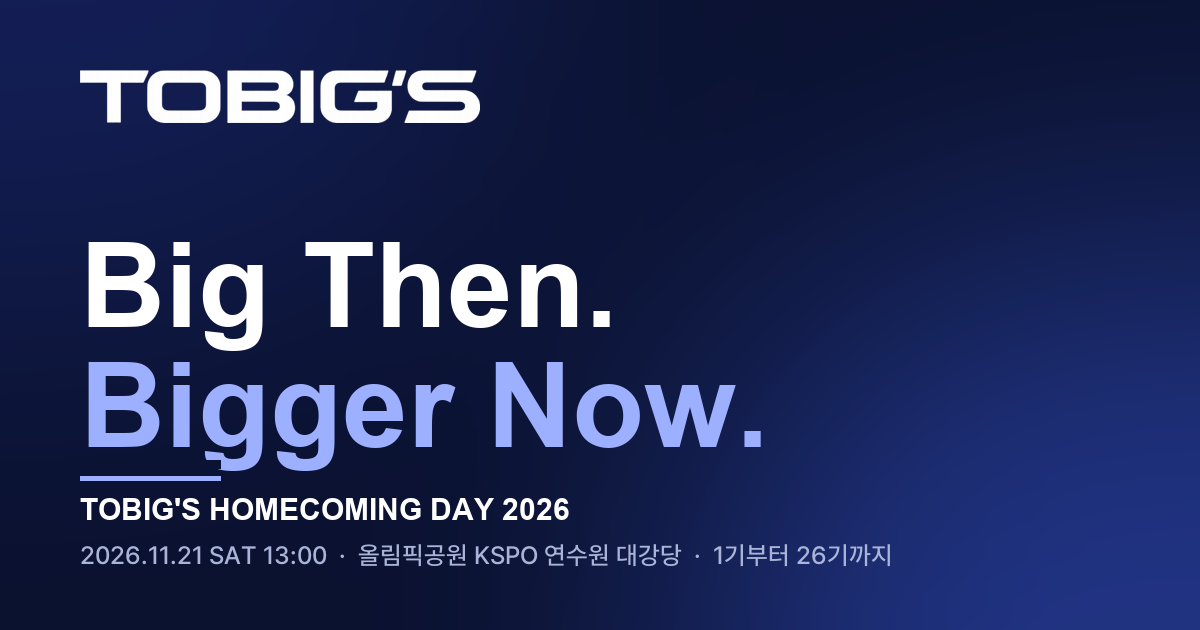
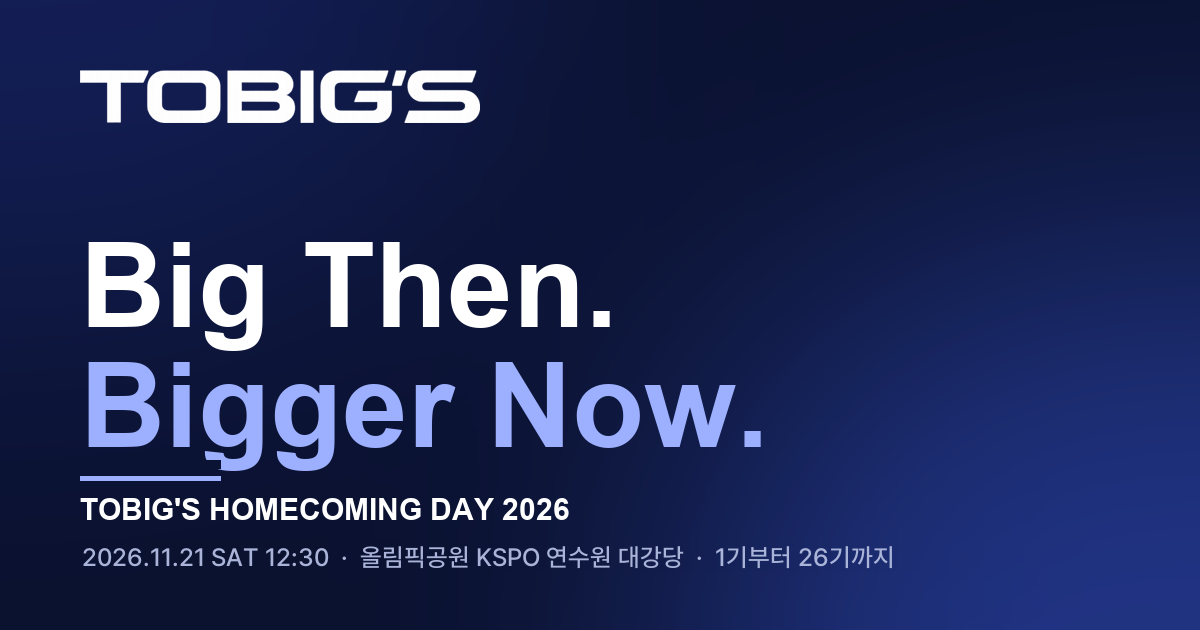
Program v2: 12:30 entry, two breaks, 60-min Table Talk, no Connection Networking; FAQ/calendar/OG/story times updated

Changed region(s): [[0.0617, 0.8444, 0.74, 0.9048]]

diff --git a/index.html b/index.html
@@ -4,7 +4,7 @@
 <meta charset="utf-8">
 <meta name="viewport" content="width=device-width, initial-scale=1, viewport-fit=cover">
 <title>TOBIG'S Homecoming Day 2026 · Big Then. Bigger Now.</title>
-<meta name="description" content="투빅스(TOBIG'S) 홈커밍데이 2026. 11월 21일(토) 13:00, 올림픽공원 KSPO 연수원 대강당. 1기부터 26기까지 전 기수가 모이는 동문 행사. 선배 토크, 퀴즈, 테이블 토크, 네트워킹.. 사전 신청.">
+<meta name="description" content="투빅스(TOBIG'S) 홈커밍데이 2026. 11월 21일(토) 12:30 입장, 13:00 개회. 올림픽공원 KSPO 연수원 대강당. 1기부터 26기까지 전 기수가 모이는 동문 행사. 선배 토크, 퀴즈, 테이블 토크. 사전 신청.">
 <link rel="canonical" href="https://homecoming.datamarket.ai.kr/">
 <meta name="theme-color" content="#0b1230">
 
@@ -37,14 +37,14 @@
 <meta property="og:site_name" content="TOBIG'S Homecoming Day 2026">
 <meta property="og:locale" content="ko_KR">
 <meta property="og:title" content="TOBIG'S Homecoming Day 2026">
-<meta property="og:description" content="Big Then. Bigger Now. 11월 21일(토) 13:00, 올림픽공원 KSPO 연수원 대강당. 투빅스 1기부터 26기까지 다시 한자리에. 사전 신청.">
+<meta property="og:description" content="Big Then. Bigger Now. 11월 21일(토) 12:30 입장, 13:00 개회. 올림픽공원 KSPO 연수원 대강당. 투빅스 1기부터 26기까지 다시 한자리에. 사전 신청.">
 <meta property="og:image" content="https://homecoming.datamarket.ai.kr/assets/og.png">
 <meta property="og:image:width" content="1200">
 <meta property="og:image:height" content="630">
 <meta property="og:url" content="https://homecoming.datamarket.ai.kr/">
 <meta name="twitter:card" content="summary_large_image">
 <meta name="twitter:title" content="TOBIG'S Homecoming Day 2026 · Big Then. Bigger Now.">
-<meta name="twitter:description" content="11월 21일(토) 13:00, 올림픽공원 KSPO 연수원 대강당. 투빅스 1기부터 26기까지 다시 한자리에.">
+<meta name="twitter:description" content="11월 21일(토) 12:30 입장, 13:00 개회. 올림픽공원 KSPO 연수원 대강당. 투빅스 1기부터 26기까지 다시 한자리에.">
 <meta name="twitter:image" content="https://homecoming.datamarket.ai.kr/assets/og.png">
 <link rel="icon" type="image/png" href="assets/favicon.png">
 <link rel="apple-touch-icon" href="assets/apple-touch-icon.png">
@@ -351,7 +351,7 @@
       <p class="lead">투빅스(To + Bigs)는 빅데이터를 공부하고 큰 사람이 되기 위해 모인 사람들이라는 뜻입니다. 2014년 1기부터 2026년 26기까지, 12년 동안 TOBIG'S를 지나간 400명 넘는 사람들이 한 공간에 모입니다. 지난 활동을 사진으로 돌아보고, 지금의 TOBIG'S가 무엇을 하는지 공유하고, 선배와 후배가 연결되는 시간입니다.</p>
     </div>
     <dl class="facts">
-      <div class="fact"><dt>When</dt><dd>2026.11.21 (토) 13:00</dd></div>
+      <div class="fact"><dt>When</dt><dd>2026.11.21 (토) 13:00<small>12:30부터 입장 · 16:40 종료</small></dd></div>
       <div class="fact"><dt>Where</dt><dd>KSPO 연수원 대강당<small>서울 송파구 올림픽로 424 · 몽촌토성역 도보 5분</small></dd></div>
       <div class="fact"><dt>Who</dt><dd>TOBIG'S 1기 – 26기 전원<small>전·현 기수 학회원 누구나</small></dd></div>
       <div class="fact"><dt>After</dt><dd>17:30 뒤풀이<small>희망자 참석 · 방이동 식당가</small></dd></div>
@@ -371,7 +371,7 @@
         <div class="big">KSPO 연수원<br>대강당</div>
         <div class="sub">서울특별시 송파구 올림픽로 424 (올림픽공원 · 올림픽회관 지하 1층)</div>
         <ul>
-          <li>13:00부터 입장, 17:00까지 행사가 마무리됩니다</li>
+          <li>12:30부터 입장, 16:40에 행사가 마무리됩니다</li>
           <li>8인 테이블 10개. 자리는 신청 때 고른 관심 주제로 미리 배정합니다</li>
           <li>행사장 주차 등록이 되지 않습니다</li>
           <li>행사장 안에 와이파이가 없습니다</li>
@@ -379,7 +379,7 @@
         <div class="actions">
           <a href="https://map.naver.com/p/search/%EC%98%AC%EB%A6%BC%ED%94%BD%ED%9A%8C%EA%B4%80" target="_blank" rel="noopener">네이버 지도</a>
           <a href="https://map.kakao.com/?q=%EC%98%AC%EB%A6%BC%ED%94%BD%ED%9A%8C%EA%B4%80" target="_blank" rel="noopener">카카오맵</a>
-          <a href="https://calendar.google.com/calendar/render?action=TEMPLATE&text=TOBIG%27S%20Homecoming%20Day%202026&dates=20261121T040000Z/20261121T080000Z&ctz=Asia/Seoul&location=KSPO%20%EC%97%B0%EC%88%98%EC%9B%90%20%EB%8C%80%EA%B0%95%EB%8B%B9%20(%EC%84%9C%EC%9A%B8%20%EC%86%A1%ED%8C%8C%EA%B5%AC%20%EC%98%AC%EB%A6%BC%ED%94%BD%EB%A1%9C%20424%20%EC%98%AC%EB%A6%BC%ED%94%BD%ED%9A%8C%EA%B4%80%20B1)&details=Big%20Then.%20Bigger%20Now.%20%ED%88%AC%EB%B9%85%EC%8A%A4%201%EA%B8%B0~26%EA%B8%B0%20%ED%99%88%EC%BB%A4%EB%B0%8D%EB%8D%B0%EC%9D%B4.%2013%3A00%20%EC%9E%85%EC%9E%A5%20%C2%B7%2013%3A30%20%EA%B0%9C%ED%9A%8C%0Ahttps%3A%2F%2Fhomecoming.datamarket.ai.kr%2F" target="_blank" rel="noopener">Google 캘린더에 추가</a>
+          <a href="https://calendar.google.com/calendar/render?action=TEMPLATE&text=TOBIG%27S%20Homecoming%20Day%202026&dates=20261121T033000Z/20261121T074000Z&ctz=Asia/Seoul&location=KSPO%20%EC%97%B0%EC%88%98%EC%9B%90%20%EB%8C%80%EA%B0%95%EB%8B%B9%20(%EC%84%9C%EC%9A%B8%20%EC%86%A1%ED%8C%8C%EA%B5%AC%20%EC%98%AC%EB%A6%BC%ED%94%BD%EB%A1%9C%20424%20%EC%98%AC%EB%A6%BC%ED%94%BD%ED%9A%8C%EA%B4%80%20B1)&details=Big%20Then.%20Bigger%20Now.%20%ED%88%AC%EB%B9%85%EC%8A%A4%201%EA%B8%B0~26%EA%B8%B0%20%ED%99%88%EC%BB%A4%EB%B0%8D%EB%8D%B0%EC%9D%B4.%2012%3A30%20%EC%9E%85%EC%9E%A5%20%C2%B7%2013%3A00%20%EA%B0%9C%ED%9A%8C%0Ahttps%3A%2F%2Fhomecoming.datamarket.ai.kr%2F" target="_blank" rel="noopener">Google 캘린더에 추가</a>
           <span class="cal-note">노션 캘린더·애플 캘린더는 연동된 Google 계정에 함께 표시됩니다</span>
         </div>
       </div>
@@ -402,16 +402,17 @@
     <h2>무대는 짧게, 대화는 길게</h2>
     <ol class="tl" id="tl">
       <span class="tl-progress" id="tl-progress" aria-hidden="true"></span>
-      <li class="tl-item"><span class="tl-dot"></span><span class="tl-time">13:00</span><div class="tl-body"><div class="n">입장 · 체크인</div><div class="d">명찰을 받고 미리 배정된 테이블로. 입구 질문 보드에 선배님께 묻고 싶은 질문을 남기고, 포토존에서 첫 사진을 남깁니다</div></div></li>
-      <li class="tl-item"><span class="tl-dot"></span><span class="tl-time">13:30</span><div class="tl-body"><div class="n">개회사</div><div class="d">TOBIG'S의 첫 기수, 1기 선배님의 개회 말씀</div><div class="speakers one" id="opener" hidden></div></div></li>
-      <li class="tl-item"><span class="tl-dot"></span><span class="tl-time">13:40</span><div class="tl-body"><div class="n">TOBIG'S Yesterday &amp; Today</div><div class="d">투빅스의 시작부터 지금까지, 사진으로 돌아보는 12년.<br>이어서 25·26기의 현재 활동 소개와 회장·운영부장 환영사</div></div></li>
-      <li class="tl-item"><span class="tl-dot"></span><span class="tl-time">14:00</span><div class="tl-body"><div class="n">Alumni Session</div><div class="d">MC와 선배 세 분이 함께하는 45분 토크 콘서트</div><div class="spk-label" id="spk-label" hidden>Talk Guests</div><div class="speakers" id="speakers" hidden></div></div></li>
-      <li class="tl-item"><span class="tl-dot"></span><span class="tl-time">14:45</span><div class="tl-body"><div class="n">Break &amp; Snack</div><div class="d">테이블에 준비된 구움과자와 커피, 차, 음료. 자유롭게 대화하고 포토존도 이용하세요</div></div></li>
-      <li class="tl-item"><span class="tl-dot"></span><span class="tl-time">15:05</span><div class="tl-body"><div class="n">TOBIG'S Quiz</div><div class="d">테이블 대항 8문제. 선배의 이야기, 옛 사진, 투빅스의 역사가 문제로 나옵니다.<br>서로 다른 기수가 협력해서 풀이해야 합니다</div></div></li>
-      <li class="tl-item"><span class="tl-dot"></span><span class="tl-time">15:25</span><div class="tl-body"><div class="n">Table Talk</div><div class="d">신청 때 고른 관심 분야로 모인 테이블에서 선후배가 30분간 대화.<br>가벼운 질문으로 시작해 커리어와 연구 이야기로</div></div></li>
-      <li class="tl-item"><span class="tl-dot"></span><span class="tl-time">15:55</span><div class="tl-body"><div class="n">Connection Networking</div><div class="d">테이블을 벗어나 아직 만나지 못한 기수를 만나는 시간.<br>선배는 후배 기수 두 명, 후배는 선배 기수 두 명 이상을 만나 기수 스티커를 교환합니다</div></div></li>
-      <li class="tl-item"><span class="tl-dot"></span><span class="tl-time">16:15</span><div class="tl-body"><div class="n">Lucky Draw</div><div class="d">행사의 마지막 이벤트, 경품 추첨</div></div></li>
-      <li class="tl-item"><span class="tl-dot"></span><span class="tl-time">16:25</span><div class="tl-body"><div class="n">단체사진 · Closing</div><div class="d">전원 단체사진, 만족도 설문, 뒤풀이 안내. 16:35 본행사 종료</div></div></li>
+      <li class="tl-item"><span class="tl-dot"></span><span class="tl-time">12:30</span><div class="tl-body"><div class="n">입장 · 체크인</div><div class="d">명찰과 기수 스티커를 받고 미리 배정된 테이블로. 입구 질문 보드에 선배님께 묻고 싶은 질문을 남기고, 포토존에서 첫 사진을 남깁니다</div></div></li>
+      <li class="tl-item"><span class="tl-dot"></span><span class="tl-time">13:00</span><div class="tl-body"><div class="n">Opening · TOBIG'S Yesterday</div><div class="d">Host의 오프닝 인사와 사진으로 돌아보는 투빅스 12년</div></div></li>
+      <li class="tl-item"><span class="tl-dot"></span><span class="tl-time">13:10</span><div class="tl-body"><div class="n">개회사</div><div class="d">TOBIG'S의 첫 기수, 1기 선배님의 개회 말씀</div><div class="speakers one" id="opener" hidden></div></div></li>
+      <li class="tl-item"><span class="tl-dot"></span><span class="tl-time">13:20</span><div class="tl-body"><div class="n">TOBIG'S Today</div><div class="d">25·26기의 현재 활동 소개와 회장·운영부장 환영사</div></div></li>
+      <li class="tl-item"><span class="tl-dot"></span><span class="tl-time">13:30</span><div class="tl-body"><div class="n">Alumni Session</div><div class="d">Host와 선배 세 분이 함께하는 40분 토크 콘서트</div><div class="spk-label" id="spk-label" hidden>Talk Guests</div><div class="speakers" id="speakers" hidden></div></div></li>
+      <li class="tl-item"><span class="tl-dot"></span><span class="tl-time">14:10</span><div class="tl-body"><div class="n">Break 1</div><div class="d">테이블에 준비된 구움과자와 커피, 차, 음료. 자유롭게 대화하고 포토존도 이용하세요.<br>다른 기수를 만나면 기수 스티커를 교환해 보세요</div></div></li>
+      <li class="tl-item"><span class="tl-dot"></span><span class="tl-time">14:40</span><div class="tl-body"><div class="n">TOBIG'S Quiz</div><div class="d">테이블 대항 5문제. 선배의 이야기, 옛 사진, 투빅스의 역사가 문제로 나옵니다.<br>서로 다른 기수가 협력해서 풀이해야 합니다</div></div></li>
+      <li class="tl-item"><span class="tl-dot"></span><span class="tl-time">15:00</span><div class="tl-body"><div class="n">Table Talk</div><div class="d">신청 때 고른 관심 분야로 모인 테이블에서 선후배가 60분간 대화.<br>가벼운 질문으로 시작해 커리어와 연구 이야기로</div></div></li>
+      <li class="tl-item"><span class="tl-dot"></span><span class="tl-time">16:00</span><div class="tl-body"><div class="n">Break 2</div><div class="d">테이블 단위로 다른 테이블에 놀러 가는 시간.<br>기수 스티커 교환은 여기서 마감합니다</div></div></li>
+      <li class="tl-item"><span class="tl-dot"></span><span class="tl-time">16:15</span><div class="tl-body"><div class="n">Lucky Draw · Closing</div><div class="d">경품 추첨, 마무리 인사, 만족도 설문과 뒤풀이 안내</div></div></li>
+      <li class="tl-item"><span class="tl-dot"></span><span class="tl-time">16:30</span><div class="tl-body"><div class="n">단체사진</div><div class="d">전원 단체사진. 16:40 본행사 종료</div></div></li>
       <li class="tl-item last"><span class="tl-dot"></span><span class="tl-time">17:30</span><div class="tl-body"><div class="n">뒤풀이</div><div class="d">희망자에 한해 방이동 식당가로 함께 이동</div></div></li>
     </ol>
   </div>
@@ -496,12 +497,12 @@
   <div class="wrap">
     <div class="eyebrow">FAQ</div>
     <h2>자주 묻는 질문</h2>
-    <details><summary>오래전 기수인데 아는 사람이 없어도 괜찮나요?</summary><p>그래서 만든 자리입니다. 명찰에 이름과 기수가 크게 적혀 있습니다. 테이블 토크 첫 라운드는 운영진이 기수를 섞어 배정하고, 테이블마다 현 기수 호스트가 자기소개와 대화를 이끕니다. 이어서 같은 테이블에서 신청 때 고른 관심 주제로 대화가 이어지고, 그 다음 네트워킹 미션(기수 스티커 교환)이 선후배에게 말을 걸 이유를 만들어 줍니다. 혼자 오셔도 어색할 틈이 없도록 설계했습니다.</p></details>
-    <details><summary>몇 시까지 가야 하나요? 늦게 도착해도 되나요?</summary><p>13:00부터 입장과 체크인이 시작되고 13:30에 개회합니다. 13:20까지 도착하시면 명찰을 받고 사진도 찍고 자리 잡을 여유가 있습니다. 늦으시는 경우에도 14:45 Break 시간까지는 체크인 데스크가 운영되고, 그 이후에는 입구 셀프 명찰함에서 명찰을 찾아 들어오시면 됩니다. 15:25 Table Talk부터 합류하셔도 프로그램의 핵심은 충분히 함께하실 수 있습니다. 본행사는 16:35에 끝납니다. 중간에 먼저 가셔야 하는 경우도 물론 괜찮습니다.</p></details>
-    <details><summary>선배님께 묻고 싶은 게 있어요. 어떻게 질문하나요?</summary><p>두 가지 방법이 있습니다. 참석 신청 폼에 "선배에게 묻고 싶은 질문" 칸이 있으니 미리 적어주시면 운영진이 질문 보드에 옮겨 둡니다. 당일에는 입구 체크인 데스크 옆 질문 보드에 포스트잇으로 직접 붙이실 수 있고, Alumni Session 도중에 떠오른 질문도 운영진에게 건네주시면 됩니다. 운영진이 질문을 모아 세션 후반 Q&amp;A 시간에 MC가 연사분들께 대신 여쭤봅니다. 이름을 적지 않으셔도 됩니다.</p></details>
-    <details><summary>프로그램은 어떻게 진행되나요?</summary><p>앞부분 약 75분은 무대 프로그램입니다. 1기 선배님의 개회 말씀, 투빅스의 시작부터 지금까지를 사진으로 돌아보고 현재 활동을 소개하는 Yesterday &amp; Today, 그리고 MC와 선배 세 분이 함께하는 45분 토크 콘서트 Alumni Session과 객석 Q&amp;A가 있습니다. 뒷부분 약 110분은 네트워킹입니다. Break &amp; Snack, 테이블 대항 TOBIG'S Quiz, 관심 분야별 Table Talk, 기수 스티커를 교환하는 Connection Networking, 그리고 Lucky Draw와 전원 단체사진으로 마무리합니다.</p></details>
-    <details><summary>음식은 나오나요?</summary><p>행사장 규정상 식사류 반입이 되지 않아 식사는 제공되지 않습니다. 대신 테이블마다 구움과자와 물, 커피, 차, 단백질 음료를 준비해 두고 14:45 Break 시간에 편하게 드실 수 있습니다. 점심은 드시고 오시는 것을 권하고, 저녁은 17:30 뒤풀이에서 함께합니다. 알레르기 등 음식 관련 요청은 신청 폼에 적어주시면 반영합니다.</p></details>
-    <details><summary>뒤풀이는 어디서, 어떻게 하나요?</summary><p>본행사가 16:35에 끝난 뒤, 희망자에 한해 방이동 식당가로 함께 걸어가(약 10분) 17:30부터 진행합니다. 장소는 참석 인원이 확정된 뒤 리마인드 안내로 보내드립니다. 신청 폼에서 뒤풀이 참석 여부를 미리 알려주시면 자리 예약에 큰 도움이 됩니다. 뒤풀이만 참석하시는 것도 가능하니 신청 시 기재해 주세요.</p></details>
+    <details><summary>오래전 기수인데 아는 사람이 없어도 괜찮나요?</summary><p>그래서 만든 자리입니다. 명찰에 이름과 기수가 크게 적혀 있습니다. 테이블은 신청 때 고른 관심 분야가 비슷한 사람끼리, 기수는 다양하게 운영진이 미리 배정하고, 테이블마다 현 기수 호스트가 자기소개와 대화를 이끕니다. 두 번의 Break에는 기수 스티커 교환 미션이 선후배에게 말을 걸 이유를 만들어 줍니다. 혼자 오셔도 어색할 틈이 없도록 설계했습니다.</p></details>
+    <details><summary>몇 시까지 가야 하나요? 늦게 도착해도 되나요?</summary><p>12:30부터 입장과 체크인이 시작되고 13:00에 개회합니다. 12:50까지 도착하시면 명찰을 받고 사진도 찍고 자리 잡을 여유가 있습니다. 늦으시는 경우에도 14:10 Break 시간까지는 체크인 데스크가 운영되고, 그 이후에는 입구 셀프 명찰함에서 명찰을 찾아 들어오시면 됩니다. 15:00 Table Talk부터 합류하셔도 프로그램의 핵심은 충분히 함께하실 수 있습니다. 본행사는 16:40에 끝납니다. 중간에 먼저 가셔야 하는 경우도 물론 괜찮습니다.</p></details>
+    <details><summary>선배님께 묻고 싶은 게 있어요. 어떻게 질문하나요?</summary><p>두 가지 방법이 있습니다. 참석 신청 폼에 "선배에게 묻고 싶은 질문" 칸이 있으니 미리 적어주시면 운영진이 질문 보드에 옮겨 둡니다. 당일에는 입구 체크인 데스크 옆 질문 보드에 포스트잇으로 직접 붙이실 수 있고, Alumni Session 도중에 떠오른 질문도 운영진에게 건네주시면 됩니다. 운영진이 질문을 모아 세션 후반 Q&amp;A 시간에 Host가 연사분들께 대신 여쭤봅니다. 이름을 적지 않으셔도 됩니다.</p></details>
+    <details><summary>프로그램은 어떻게 진행되나요?</summary><p>앞부분 약 70분은 무대 프로그램입니다. 사진으로 돌아보는 투빅스 12년, 1기 선배님의 개회 말씀, 현재 활동을 소개하는 Today, 그리고 Host와 선배 세 분이 함께하는 40분 토크 콘서트 Alumni Session과 객석 Q&amp;A가 있습니다. 뒷부분 약 150분은 네트워킹입니다. Break, 테이블 대항 TOBIG'S Quiz, 관심 분야별 Table Talk 60분, 테이블 단위로 다른 테이블에 놀러 가는 두 번째 Break, 그리고 Lucky Draw와 전원 단체사진으로 마무리합니다.</p></details>
+    <details><summary>음식은 나오나요?</summary><p>행사장 규정상 식사류 반입이 되지 않아 식사는 제공되지 않습니다. 대신 테이블마다 구움과자와 물, 커피, 차, 단백질 음료를 준비해 두고 두 번의 Break 시간에 편하게 드실 수 있습니다. 점심은 드시고 오시는 것을 권하고, 저녁은 17:30 뒤풀이에서 함께합니다. 알레르기 등 음식 관련 요청은 신청 폼에 적어주시면 반영합니다.</p></details>
+    <details><summary>뒤풀이는 어디서, 어떻게 하나요?</summary><p>본행사가 16:40에 끝난 뒤, 희망자에 한해 방이동 식당가로 함께 걸어가(약 10분) 17:30부터 진행합니다. 장소는 참석 인원이 확정된 뒤 리마인드 안내로 보내드립니다. 신청 폼에서 뒤풀이 참석 여부를 미리 알려주시면 자리 예약에 큰 도움이 됩니다. 뒤풀이만 참석하시는 것도 가능하니 신청 시 기재해 주세요.</p></details>
     <details><summary>신청 후 못 가게 되면 어떻게 하나요?</summary><p>알게 되시는 즉시 알려주세요. 명찰 인쇄, 간식 수량, 테이블 배정, 뒤풀이 예약이 모두 신청 인원 기준으로 확정되기 때문에 하루 전 연락은 이미 반영이 어렵습니다. 늦어도 행사 3일 전인 11월 18일(수)까지 신청 시 안내되는 불참 알림 링크 또는 운영부 문의 채널로 말씀해 주시면 됩니다. 참석 여부가 불확실하면 일단 신청하지 마시고, 확정되는 대로 신청해주시기 바랍니다. 추가 접수 기간을 따로 두고 있습니다.</p></details>
     <details><summary>사진 촬영이 있나요?</summary><p>포토존 촬영, 행사 스냅, 전원 단체사진이 있고 무대 프로그램은 영상으로 기록합니다. 촬영본은 행사 후 일주일 안에 참석자 전원에게 공유하고, 일부는 TOBIG'S 기록과 홍보에 사용됩니다. 촬영을 원치 않으시면 체크인 때 말씀해 주시면 스냅에서 제외해 드립니다.</p></details>
     <details><summary>어떻게 가나요? 주차할 수 있나요?</summary><p>행사장은 서울 송파구 올림픽로 424, 올림픽공원 평화의 문 옆 올림픽회관(국민체육진흥공단) 지하 1층 KSPO 연수원 대강당입니다. 8호선 몽촌토성역 1번 출구에서 평화의 문을 지나 걸어서 5분이고, 위의 네이버 지도, 카카오맵 버튼으로 길찾기를 열 수 있습니다. 행사장 주차 등록이 되지 않아 대중교통을 권장하며, 꼭 차량이 필요하시면 올림픽공원 공영주차장(유료)을 이용하셔야 합니다.</p></details>
@@ -588,7 +589,7 @@
   }
 
   // ---- share menu: 링크 복사 / 인스타그램 / 링크드인 ----
-  const SHARE_TEXT = "TOBIG'S Homecoming Day 2026 · Big Then. Bigger Now. 11.21(토) 13:00 올림픽공원 KSPO 연수원";
+  const SHARE_TEXT = "TOBIG'S Homecoming Day 2026 · Big Then. Bigger Now. 11.21(토) 12:30 올림픽공원 KSPO 연수원";
   let toast = document.createElement('div'); toast.className='toast'; document.body.appendChild(toast);
   const say = m => { toast.textContent=m; toast.classList.add('show'); clearTimeout(say.t); say.t=setTimeout(()=>toast.classList.remove('show'),2200); };
   const copyLink = async () => { try { await navigator.clipboard.writeText(SITE_URL); } catch(e){ const i=document.createElement('input'); i.value=SITE_URL; document.body.appendChild(i); i.select(); document.execCommand('copy'); i.remove(); } say('링크를 복사했습니다'); };
